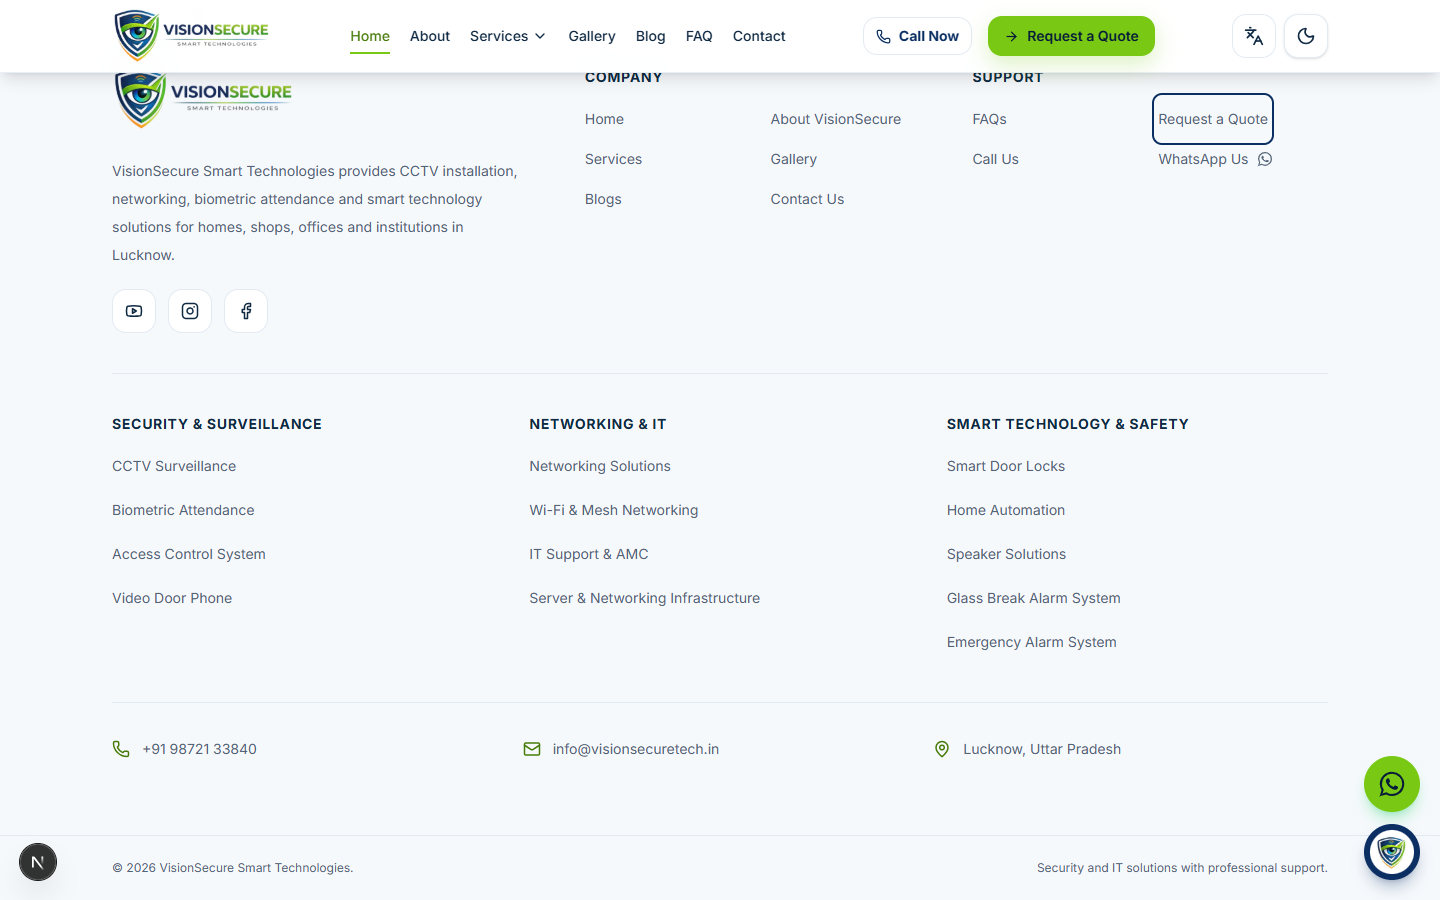
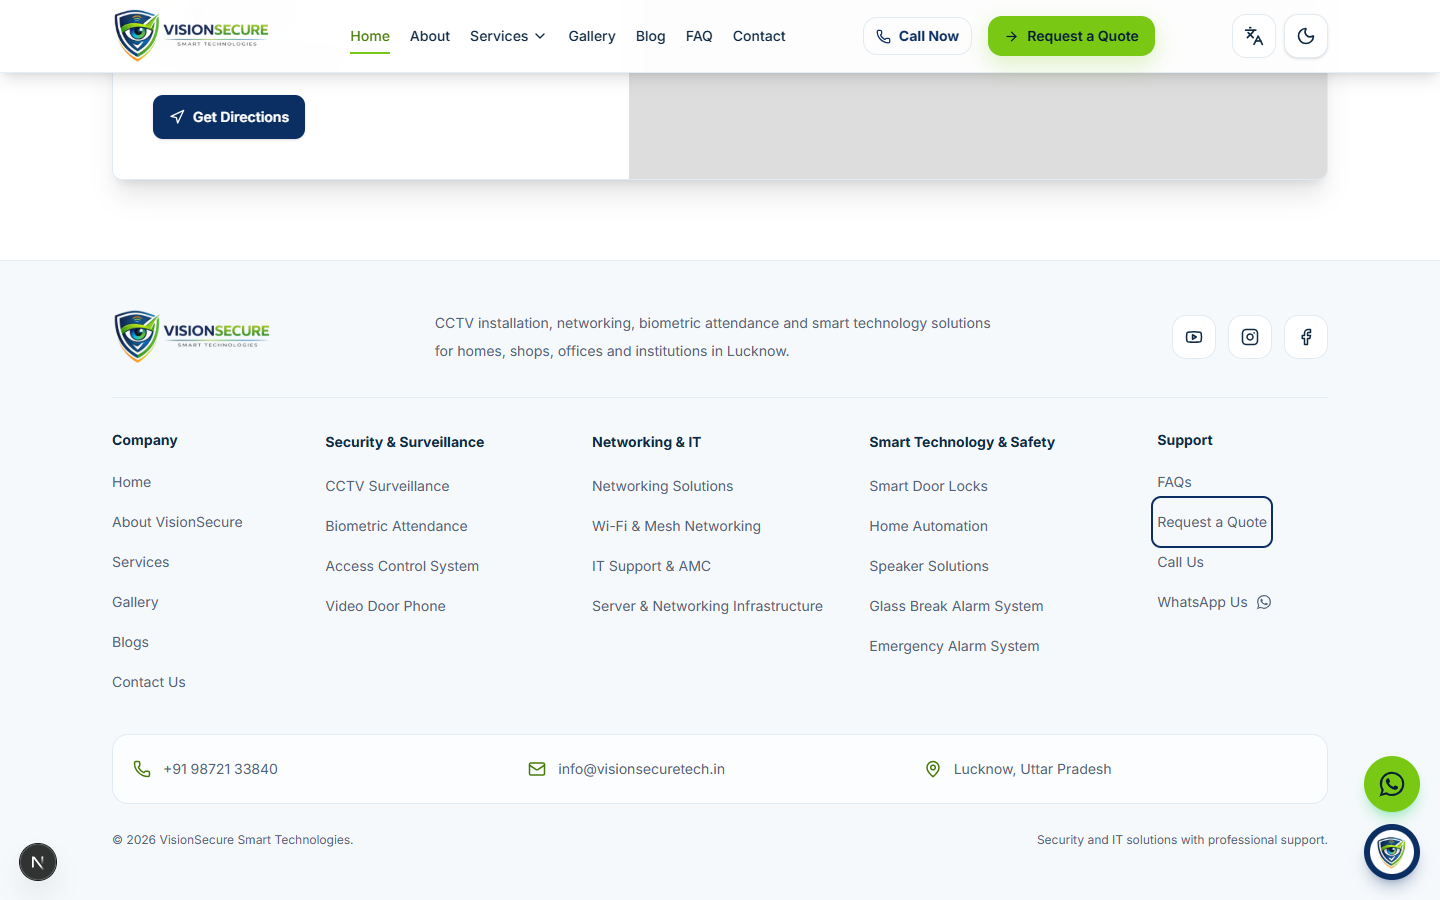
Refine footer into compact responsive navigation columns

diff --git a/components/footer.tsx b/components/footer.tsx
@@ -1,4 +1,4 @@
-import Image from "next/image"
+import Image from "next/image"
 import Link from "next/link"
 import { Facebook, Instagram, Mail, MapPin, Phone, Youtube } from "lucide-react"
 import { FaWhatsapp } from "react-icons/fa"
@@ -19,30 +19,26 @@ const linkClass = "inline-flex min-h-10 items-center rounded py-2 text-sm leadin
 
 export function Footer() {
   return <footer className="border-t border-border bg-secondary text-muted-foreground">
-    <div className="page-container py-12 lg:py-16">
-      <div className="grid gap-10 border-b border-border pb-10 lg:grid-cols-[1.1fr_2fr] lg:gap-16">
-        <div className="max-w-md">
-          <Link href="/" aria-label="VisionSecure home" className="inline-block rounded focus-visible:outline focus-visible:outline-2 focus-visible:outline-offset-4 focus-visible:outline-primary"><Image src="/images/Visionsecuretech_logo.png" alt="VisionSecure Smart Technologies" width={300} height={84} className="h-16 max-w-full w-auto object-contain dark:rounded-md dark:bg-white dark:p-2" /></Link>
-          <p className="mt-5 text-sm leading-7">VisionSecure Smart Technologies provides CCTV installation, networking, biometric attendance and smart technology solutions for homes, shops, offices and institutions in Lucknow.</p>
-          <div className="mt-5 flex gap-3">{socials.map(({ Icon, href, label }) => <a key={label} href={href} target="_blank" rel="noopener noreferrer" aria-label={label} className="inline-flex h-11 w-11 items-center justify-center rounded-xl border border-border bg-card text-foreground transition hover:border-primary hover:text-brand-ink focus-visible:outline focus-visible:outline-2 focus-visible:outline-offset-4 focus-visible:outline-primary"><Icon size={18} aria-hidden="true" /></a>)}</div>
-        </div>
-        <div className="grid gap-8 sm:grid-cols-2">
-          <nav aria-label="Footer company"><h2 className="text-sm font-bold uppercase tracking-wider text-foreground">Company</h2><ul className="mt-3 grid grid-cols-2 gap-x-4">{companyLinks.map(([label, href]) => <li key={href}><Link href={href} className={linkClass}>{label}</Link></li>)}</ul></nav>
-          <nav aria-label="Footer support"><h2 className="text-sm font-bold uppercase tracking-wider text-foreground">Support</h2><ul className="mt-3 grid grid-cols-2 gap-x-4">
-            <li><Link href="/faq" className={linkClass}>FAQs</Link></li><li><Link href="/contact" className={linkClass}>Request a Quote</Link></li>
-            <li><a href="tel:+919872133840" className={linkClass}>Call Us</a></li><li><a href="https://wa.me/919872133840" target="_blank" rel="noopener noreferrer" className={linkClass}>WhatsApp Us<FaWhatsapp className="ml-2 h-4 w-4 shrink-0" aria-hidden="true" /></a></li>
-          </ul></nav>
-        </div>
+    <div className="page-container py-10 lg:py-12">
+      <div className="flex flex-col gap-6 border-b border-border pb-8 lg:flex-row lg:items-center lg:justify-between lg:gap-10">
+        <Link href="/" aria-label="VisionSecure home" className="inline-block w-fit shrink-0 rounded focus-visible:outline focus-visible:outline-2 focus-visible:outline-offset-4 focus-visible:outline-primary"><Image src="/images/Visionsecuretech_logo.png" alt="VisionSecure Smart Technologies" width={300} height={84} className="h-14 max-w-full w-auto object-contain dark:rounded-md dark:bg-white dark:p-2" /></Link>
+        <p className="max-w-xl text-sm leading-7">CCTV installation, networking, biometric attendance and smart technology solutions for homes, shops, offices and institutions in Lucknow.</p>
+        <div className="flex shrink-0 gap-3">{socials.map(({ Icon, href, label }) => <a key={label} href={href} target="_blank" rel="noopener noreferrer" aria-label={label} className="inline-flex h-11 w-11 items-center justify-center rounded-xl border border-border bg-card text-foreground transition hover:border-primary hover:text-brand-ink focus-visible:outline focus-visible:outline-2 focus-visible:outline-offset-4 focus-visible:outline-primary"><Icon size={18} aria-hidden="true" /></a>)}</div>
       </div>
-      <div className="grid gap-9 py-10 md:grid-cols-3">
-        {serviceGroups.map(group => <nav key={group.title} aria-label={`Footer ${group.title}`}><h2 className="text-sm font-bold uppercase tracking-wider text-foreground">{group.title}</h2><ul className="mt-3 space-y-1">{services.filter(service => group.categories.includes(service.category)).map(service => <li key={service.slug}><Link href={`/services/${service.slug}`} className={linkClass}>{service.slug === "wifi-mesh-networking" ? "Wi-Fi & Mesh Networking" : service.title}</Link></li>)}</ul></nav>)}
+      <div className="grid grid-cols-2 gap-x-6 gap-y-8 py-8 md:grid-cols-3 xl:grid-cols-[.85fr_1.1fr_1.15fr_1.2fr_.8fr] xl:gap-x-8">
+        <nav aria-label="Footer company" className="min-w-0"><h2 className="text-sm font-bold text-foreground">Company</h2><ul className="mt-3">{companyLinks.map(([label, href]) => <li key={href}><Link href={href} className={linkClass}>{label}</Link></li>)}</ul></nav>
+        {serviceGroups.map(group => <nav key={group.title} aria-label={`Footer ${group.title}`} className="min-w-0"><h2 className="text-sm font-bold leading-6 text-foreground">{group.title}</h2><ul className="mt-3">{services.filter(service => group.categories.includes(service.category)).map(service => <li key={service.slug}><Link href={`/services/${service.slug}`} className={linkClass}>{service.slug === "wifi-mesh-networking" ? "Wi-Fi & Mesh Networking" : service.title}</Link></li>)}</ul></nav>)}
+        <nav aria-label="Footer support" className="col-span-2 min-w-0 pr-20 md:col-span-1 md:pr-0"><h2 className="text-sm font-bold text-foreground">Support</h2><ul className="mt-3 grid grid-cols-2 gap-x-6 md:block">
+          <li><Link href="/faq" className={linkClass}>FAQs</Link></li><li><Link href="/contact" className={linkClass}>Request a Quote</Link></li>
+          <li><a href="tel:+919872133840" className={linkClass}>Call Us</a></li><li><a href="https://wa.me/919872133840" target="_blank" rel="noopener noreferrer" className={linkClass}>WhatsApp Us<FaWhatsapp className="ml-2 h-4 w-4 shrink-0" aria-hidden="true" /></a></li>
+        </ul></nav>
       </div>
-      <div className="grid gap-4 border-t border-border pt-6 text-sm sm:grid-cols-2 lg:grid-cols-3">
+      <div className="grid gap-3 rounded-2xl border border-border bg-card/60 px-4 py-3 text-sm sm:grid-cols-2 lg:grid-cols-3 lg:px-5">
         <a className="inline-flex min-h-11 items-center gap-3 rounded focus-visible:outline focus-visible:outline-2 focus-visible:outline-primary" href="tel:+919872133840"><Phone size={18} className="shrink-0 text-brand-green" aria-hidden="true" />+91 98721 33840</a>
         <a className="inline-flex min-h-11 min-w-0 items-center gap-3 rounded focus-visible:outline focus-visible:outline-2 focus-visible:outline-primary" href="mailto:info@visionsecuretech.in"><Mail size={18} className="shrink-0 text-brand-green" aria-hidden="true" /><span className="break-all">info@visionsecuretech.in</span></a>
         <span className="inline-flex min-h-11 items-center gap-3"><MapPin size={18} className="shrink-0 text-brand-green" aria-hidden="true" />Lucknow, Uttar Pradesh</span>
       </div>
+      <div className="mt-6 flex flex-col justify-between gap-1 text-xs leading-6 sm:flex-row"><span>&copy; {new Date().getFullYear()} VisionSecure Smart Technologies.</span><span>Security and IT solutions with professional support.</span></div>
     </div>
-    <div className="border-t border-border"><div className="page-container flex flex-col justify-between gap-2 py-5 text-xs leading-6 sm:flex-row"><span>© {new Date().getFullYear()} VisionSecure Smart Technologies.</span><span>Security and IT solutions with professional support.</span></div></div>
   </footer>
 }

diff --git a/docs/seo/footer-update-report.md b/docs/seo/footer-update-report.md
@@ -39,3 +39,9 @@ Existing uncommitted homepage work, staged patch files and unfinished root merge
 Opened the affected tab's Chrome DevTools Console, hard-reloaded, and inspected the resulting console: React DevTools/HMR messages were present and the reported hydration-mismatch warning did not recur during the observed reloads. Returned the browser to the homepage with DevTools closed. No extension uninstall, unrelated settings changes, website source changes or lead actions performed.
 
 A direct read-only header-style expression could not be pasted because Chrome's self-XSS protection blocked console paste. Did not bypass that protection or claim a direct DOM attribute measurement. Verification is the observed toolbar/header placement and the affected-profile console after reload. This supersedes the earlier pending-browser-verification status. Keep SBMM's bar collapsed while developing React/Next pages on localhost; expanding it can reintroduce its header mutation.
+
+## Compact layout refinement
+
+2026-11-11. Rechecked the active footer and replaced the tall two-tier navigation with a compact brand row and five aligned desktop columns: Company, Security & Surveillance, Networking & IT, Smart Technology & Safety, Support. Mobile uses two columns and a full-width Support group with right clearance for existing floating support buttons. Added a distinct rounded contact strip and compact copyright row. Social links and all 13 service destinations preserved; no new dependencies, client state or business claims. Fixed copyright display using an HTML entity.
+
+Verified actual localhost:3000 at 320px light, 390px dark and 1440px light: 3/3 focused browser tests passed, 13 unique services and all Company/Support links retained, no horizontal overflow or hydration/page errors in clean Chrome. Focused lint, TypeScript noEmit and diff checks passed. Visually reviewed mobile and desktop screenshots; adjusted Support spacing after the first review to avoid floating-button overlap. This visual-only refinement did not rerun the full production build; the preceding footer build result above belongs to the earlier revision. Root homepage edits and staged merge patches preserved. No production deployment.
